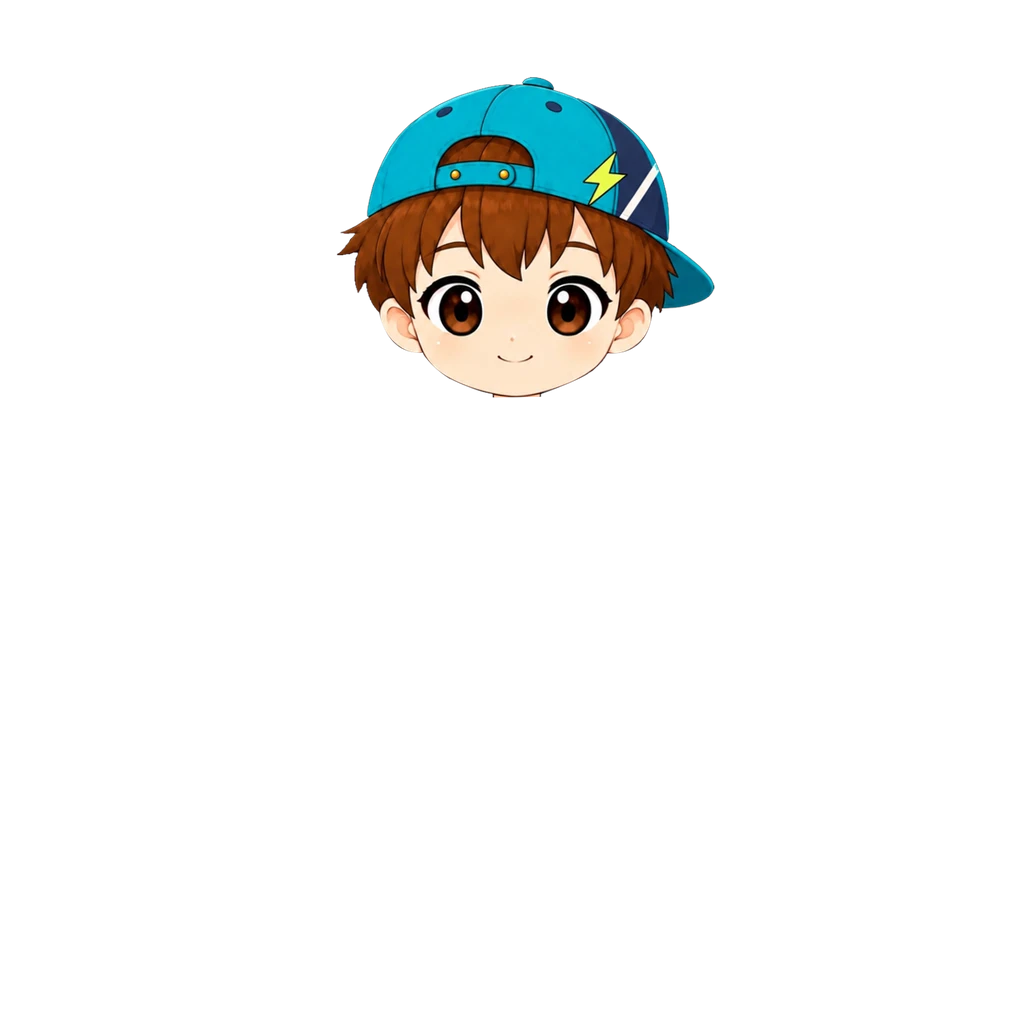
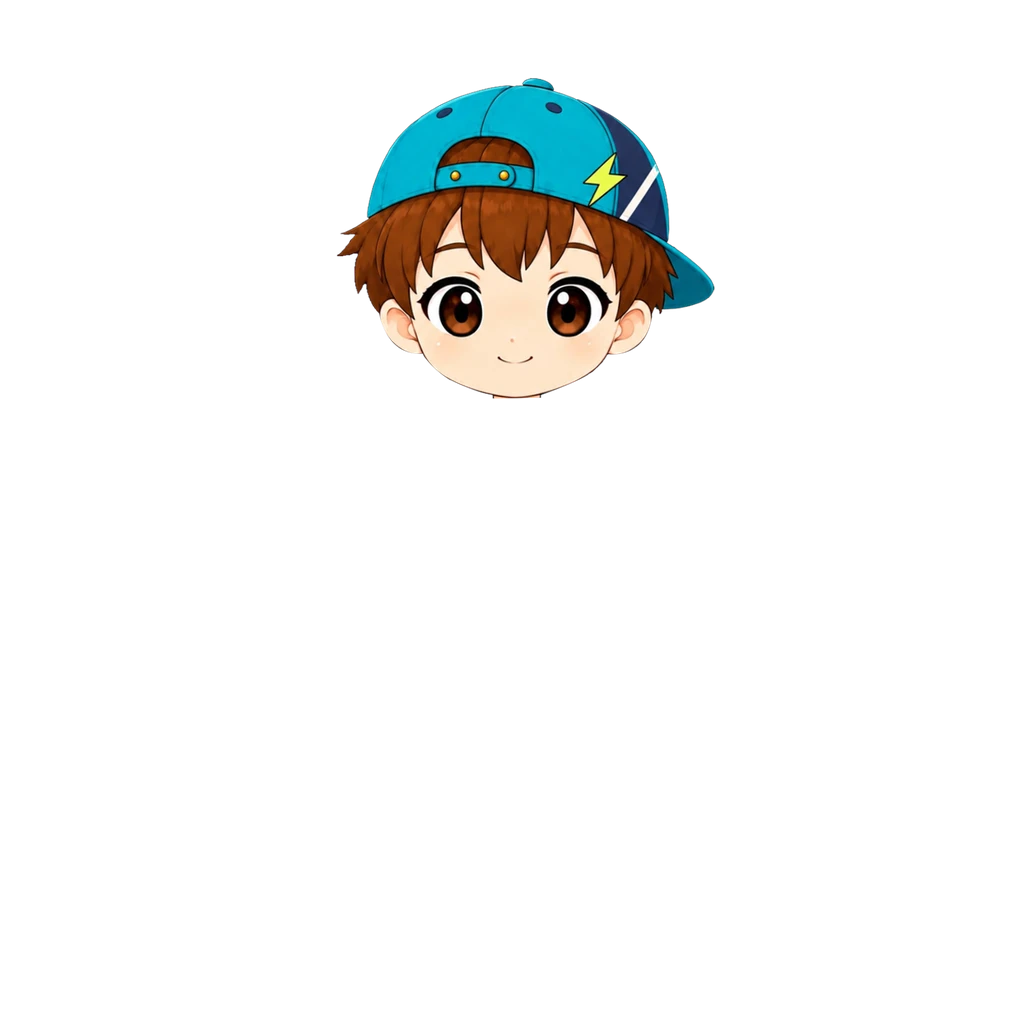
번개 캡모자(남아) 아래로 1 (#860)
* 번개 캡모자(남아) 아래로 1

Claude-Session: https://claude.ai/code/session_018maNuYqDfFyRSe9uKpZhPR

* 번개 캡모자(남아): 아래로 1 기록·캐시 번호 반영

앞 커밋에서 빠진 img ?v=2 와 조정 메모를 넣었다.

Claude-Session: https://claude.ai/code/session_018maNuYqDfFyRSe9uKpZhPR

---------

diff --git a/src/data/avatarEquipment.js b/src/data/avatarEquipment.js
@@ -220,8 +220,9 @@ export const AVATAR_CATALOG = [
   { id: "hat_safari_boy", slot: "hat",   label: "사파리 모자", emoji: "🧢", price:DECOR_PRICE.rare, rarity: "rare", theme: "adventure", forGender: "boy", hidesHead: true, img: "assets/avatar/hat/safari-brown.webp?v=2", thumb: "assets/avatar/thumb/hat_safari_boy.webp" },
   /* 번개 캡모자 [2026-10-04] — 남아. 청록 캡(뒤로 쓴 챙·형광 번개) + 얼굴 한 장(사용자 원화 589×500). 번개 스케이터 옷과 짝.
      사파리 모자와 같은 방식 — hidesHead 로 기본 머리 장을 빼고 이 그림이 머리를 대신한다. 얼굴(눈~입) 템플릿 매칭(일치 0.956)으로
-     배율 0.644, 원점 (336,76). 기본 머리 장처럼 y404 아래는 잘랐다. 탑재 상자 (336,76,715,398). */
-  { id: "hat_cap_boy",    slot: "hat",   label: "번개 캡모자", emoji: "🧢", price:DECOR_PRICE.rare, rarity: "rare", theme: "common", forGender: "boy", hidesHead: true, img: "assets/avatar/hat/lightning-cap-boy.webp", thumb: "assets/avatar/thumb/hat_cap_boy.webp" },
+     배율 0.644, 원점 (336,76). 기본 머리 장처럼 y404 아래는 잘랐다. 탑재 상자 (336,76,715,398).
+     [2026-10-04] 사용자 조정 — 아래로 1(원점 (336,77)). 탑재 상자 (336,77,715,399). img ?v=2. */
+  { id: "hat_cap_boy",    slot: "hat",   label: "번개 캡모자", emoji: "🧢", price:DECOR_PRICE.rare, rarity: "rare", theme: "common", forGender: "boy", hidesHead: true, img: "assets/avatar/hat/lightning-cap-boy.webp?v=2", thumb: "assets/avatar/thumb/hat_cap_boy.webp" },
   /* 사파리 옷 — 원화가 블라우스+반바지 한 장이라 상의 슬롯 하나로 넣는다(사용자 확정).
      상의(35)가 하의(30) 위라 하의를 같이 껴도 이 그림이 덮는다. */
   /* [2026-08-20] 남아 원화가 들어와 남녀 공용이 됐다 — 그림이 성별로 갈리는 첫 아이템.

diff --git a/art-src/README.md b/art-src/README.md
@@ -602,4 +602,4 @@ bbox로 여백만 잘라내고 배포본은 높이 480px로 축소했다(전부 
 | thumb-src-shoes_lightning.webp | **상점 목록 그림 남아 번개 운동화 (shoes_lightning, 사용자 원화 2026-10-04)** — 상점 카드에만 보이는 한 짝 아이콘. 338×337 투명 배경, 세로 160px 로 줄여 탑재(thumb ?v=2) | avatar/thumb/shoes_lightning.webp |
 | thumb-src-shoes_sandal.webp | **상점 목록 그림 남아 썸머 샌들 (shoes_sandal, 사용자 원화 2026-10-04)** — 상점 카드에만 보이는 한 짝 아이콘. 355×296 투명 배경, 세로 160px 로 줄여 탑재(thumb ?v=2) | avatar/thumb/shoes_sandal.webp |
 | thumb-src-shoes_fins.webp | **상점 목록 그림 남아 바다 오리발 (shoes_fins, 사용자 원화 2026-10-04)** — 상점 카드에만 보이는 한 짝 아이콘. 374×325 투명 배경, 세로 160px 로 줄여 탑재(thumb ?v=2) | avatar/thumb/shoes_fins.webp |
-| lightning-cap-boy-src.webp | **번개 캡모자 원화 남아 — 모자+얼굴 한 장 (사용자 원화 2026-10-04)** — 589×500 투명 배경, 청록 캡(뒤로 쓴 챙·형광 번개). 사파리 모자처럼 hidesHead 로 기본 머리를 대신한다. 얼굴 템플릿 매칭(일치 0.956)으로 배율 0.644·원점 (336,76), y404 아래 자름. 탑재 상자 (336,76,715,398). 상점 그림은 원화를 세로 160px 로 | avatar/hat/lightning-cap-boy.webp · thumb/hat_cap_boy.webp |
+| lightning-cap-boy-src.webp | **번개 캡모자 원화 남아 — 모자+얼굴 한 장 (사용자 원화 2026-10-04)** — 589×500 투명 배경, 청록 캡(뒤로 쓴 챙·형광 번개). 사파리 모자처럼 hidesHead 로 기본 머리를 대신한다. 얼굴 템플릿 매칭(일치 0.956)으로 배율 0.644·원점 (336,76), y404 아래 자름. 탑재 상자 (336,76,715,398). **[2026-10-04 조정]** 아래로 1(원점 (336,77)) · img ?v=2. 상점 그림은 원화를 세로 160px 로 | avatar/hat/lightning-cap-boy.webp · thumb/hat_cap_boy.webp |
